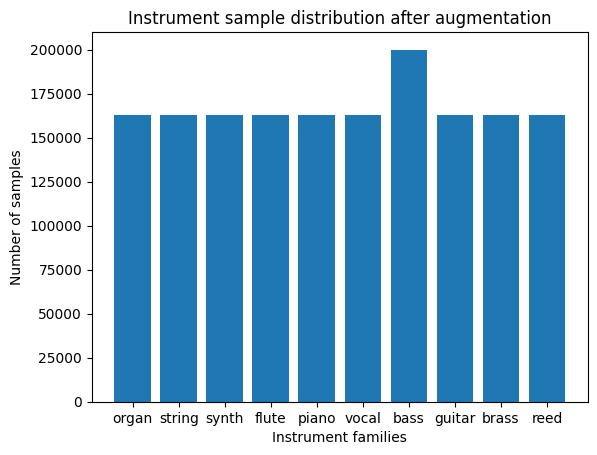
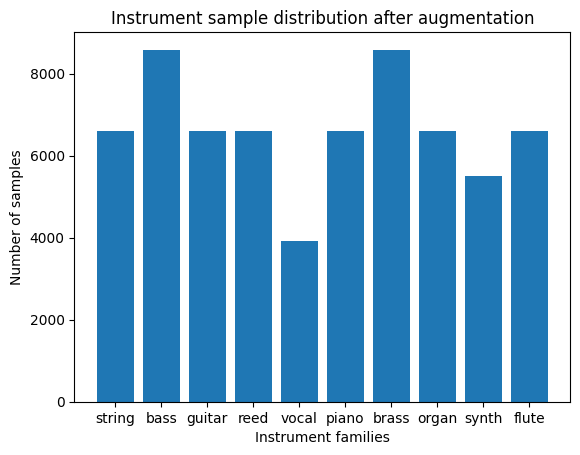
Commit changes for pull

Changed region(s): [[0.0, 0.0615, 0.9931, 0.9846], [0.1862, 0.0, 0.931, 0.0615], [0.0, 0.4, 0.031, 0.4923]]

diff --git a/scripts/instrument_distro_plots.py b/scripts/instrument_distro_plots.py
@@ -13,7 +13,7 @@ from utils.helpers import unix_url_substring_pattern
 
 def main():
     data_gen = DataGenerator.from_path_to_audio(
-        '/home/andrea/dev/uni/datasets/serialized_dataset',
+        '/home/andrea/dev/uni/datasets/nsynth',
         number_of_samples_for_each_class=200_000
     )
 
@@ -29,20 +29,20 @@ def main():
     plt.xlabel('Instrument families')
     plt.ylabel('Number of samples')
     plt.bar(instruments_counter.keys(), instruments_counter.values())
-    plt.savefig('../plots/instrument_distro_post_time_stretching.png', bbox_inches='tight')
+    plt.savefig('../plots/instrument_distro_original.png', bbox_inches='tight')
 
     # Get pitch data.
-    pitches: List[str] = [decode_pitch(df.loc[i]['pitch_label']) for i in range(num_paths)]
-    pitches_counter = Counter(pitches)
+    # pitches: List[str] = [decode_pitch(df.loc[i]['pitch_label']) for i in range(num_paths)]
+    # pitches_counter = Counter(pitches)
 
     plt.clf()
 
     # Pitch Bar Plot.
-    plt.title('Pitch distribution.')
-    plt.xlabel('Pitches')
-    plt.ylabel('Number of samples')
-    plt.bar(pitches_counter.keys(), pitches_counter.values())
-    plt.savefig('../plots/pitch_distro_post_time_stretching.png', bbox_inches='tight')
+    # plt.title('Pitch distribution.')
+    # plt.xlabel('Pitches')
+    # plt.ylabel('Number of samples')
+    # plt.bar(pitches_counter.keys(), pitches_counter.values())
+    # plt.savefig('../plots/pitch_distro_post_time_stretching.png', bbox_inches='tight')
 
 
 if __name__ == '__main__':

diff --git a/library/ai_tools/helpers.py b/library/ai_tools/helpers.py
@@ -32,7 +32,7 @@ def create_data_frame_from_path(path_to_dataset: str, number_of_samples_for_each
     shuffle(wav_paths)
 
     # One hot encoded labels.
-    encoded_pitch_labels, pitch_labels = get_pitch_encodings(wav_paths)  # type: np.ndarray, List[str]
+    # encoded_pitch_labels, pitch_labels = get_pitch_encodings(wav_paths)  # type: np.ndarray, List[str]
     encoded_instrument_labels, instrument_labels = get_instrument_encodings(
         wav_paths,
         instrument_classes
@@ -42,9 +42,9 @@ def create_data_frame_from_path(path_to_dataset: str, number_of_samples_for_each
         {
             'path': wav_paths,
             'instrument': [label for label in instrument_labels],
-            'pitch': [label for label in pitch_labels],
+            # 'pitch': [label for label in pitch_labels],
             'instrument_label': [label for label in encoded_instrument_labels],
-            'pitch_label': [label for label in encoded_pitch_labels],
+            # 'pitch_label': [label for label in encoded_pitch_labels],
         }
     )
 

diff --git a/src/main.py b/src/main.py
@@ -11,7 +11,7 @@ import utils.constants as consts
 from matplotlib import pyplot as plt
 from librosa.display import specshow
 
-PATH_TO_MODEL: str = '../runs/models/model_3/epoch-96.pb'
+PATH_TO_MODEL: str = '../models/model_3/epoch-96.pb'
 PATH_TO_AUDIO: str = '../long-audio/debussy.wav'
 OUTPUT_DIR: str = '../feature_visualization'
 
@@ -29,15 +29,15 @@ model_filter_amplifier = ModelFilterAmplifier(model, 2)
 
 # Loop over all neurons and save their output.
 for neuron_i in range(model_filter_amplifier.max_num_neurons):
+
+    print(f'Processing neuron: {neuron_i}')
+
     audio_signal, mel_spec = model_filter_amplifier(
         sample,
         filter_index=neuron_i,
         iterations=1,
         filter_amount=0.06,  # Mild high cut. 0 is no filtering, 1 is completely closed filter.
     )  # type: np.ndarray, np.ndarray
-
-    create_audio_player(audio_signal)
-    display_mel_spectrogram(mel_spec)
 
     neuron_name: str = f'neuron_{neuron_i}'
 

diff --git a/scripts/time_stretching.py b/scripts/time_stretching.py
@@ -5,9 +5,10 @@ from typing import List
 
 from utils.audio_tools import time_stretch_signal
 
+
 # Settings.
-path_to_data_to_augment: str = '/home/andrea/dev/uni/datasets/nsynth_small'
-path_for_writing: str = '/home/andrea/dev/uni/datasets/nsynth'
+path_to_data_to_augment: str = '/home/andrea/dev/uni/datasets/nsynth_for_stretch'
+path_for_writing: str = '/home/andrea/dev/uni/datasets/nsynth_time_stretched'
 
 
 def main():
@@ -16,6 +17,8 @@ def main():
     for instrument in instruments:
         path_to_samples: str = join(path_to_data_to_augment, instrument)
         sample_paths: List[str] = os.listdir(path_to_samples)
+
+        os.makedirs(join(path_for_writing, instrument), exist_ok=True)
 
         print(f'\nProcessing {instrument}.')
         print(f'Num Samples: {len(sample_paths)}\n\n')

diff --git a/library/ai_tools/model_filter_amplifier.py b/library/ai_tools/model_filter_amplifier.py
@@ -55,10 +55,7 @@ class ModelFilterAmplifier:
         :return:
         """
 
-        # Segment audio signal and convert segments into mel spectrograms
         mel_spec_segments: List[np.ndarray] = convert_signal_into_mel_spectrogram_segments(input_signal)
-
-        # Initialize lists for putting back together segmented signal after processing.
         mel_specs: List[np.ndarray] = []
         processed_signal: List[np.ndarray] = []
 

diff --git a/library/ai_tools/model_builders.py b/library/ai_tools/model_builders.py
@@ -273,7 +273,7 @@ def vgg_like_model(
         dropout_amount: float = 0.1,
         learning_rate: float = 0.001,
         input_shape: Tuple[int, int, int] = X_SHAPE,
-        num_classes: int = 10
+        num_classes: int = 15
 ) -> Model:
     """
     :param num_first_conv_blocks:

diff --git a/src/main_training_script.py b/src/main_training_script.py
@@ -88,7 +88,6 @@ def main() -> None:
         num_fourth_conv_blocks=(1, 9),
         dropout_amount=(0.0, 0.499),
         learning_rate=(0.0, 0.0001),
-        num_classes=(y.shape[-1], y.shape[-1])
     )
 
     # Create optimizer object.
